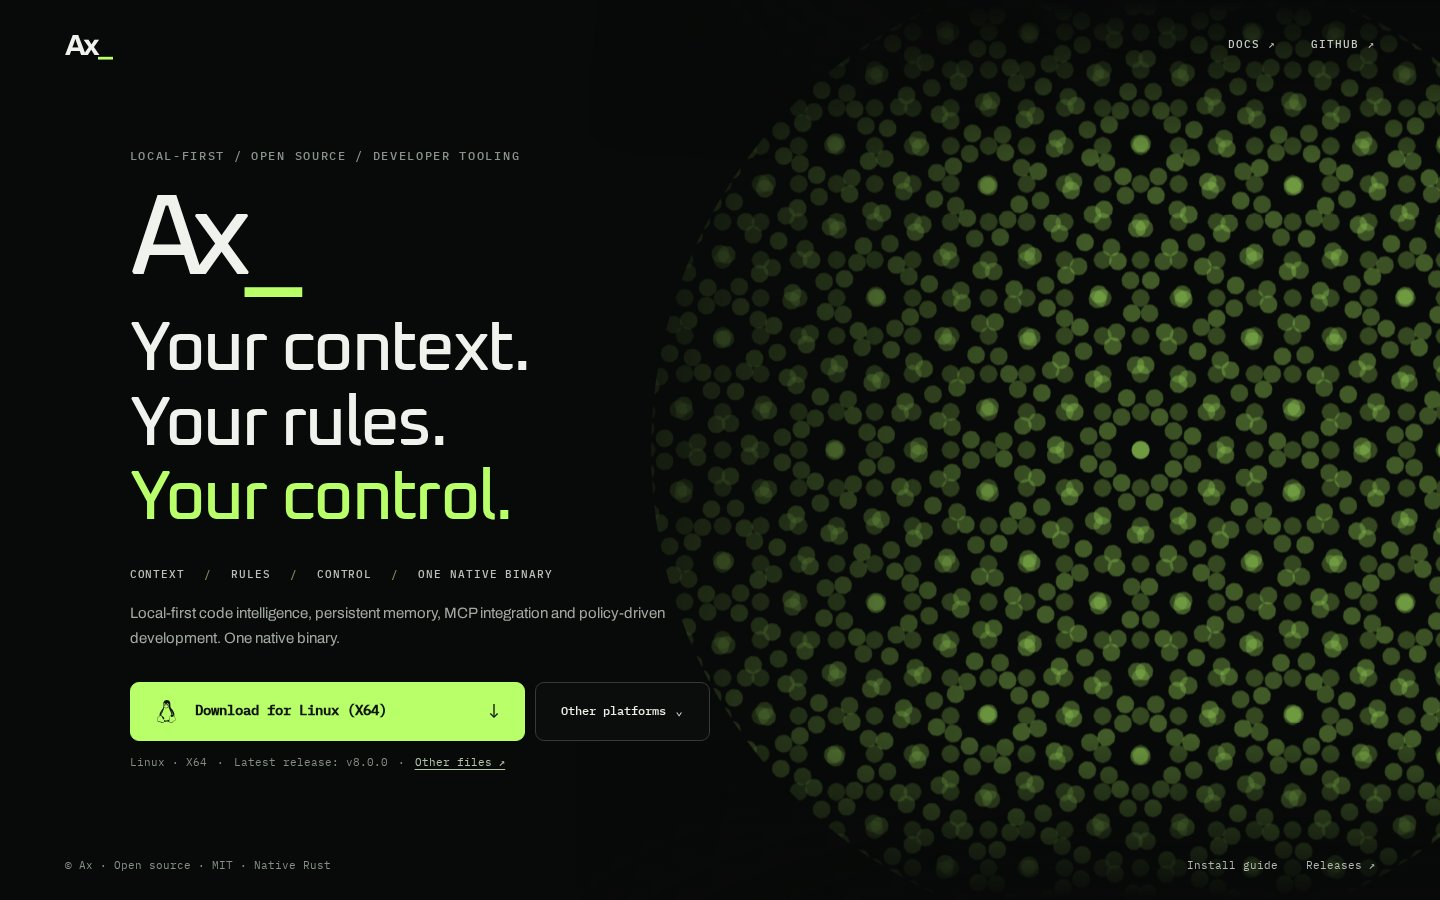
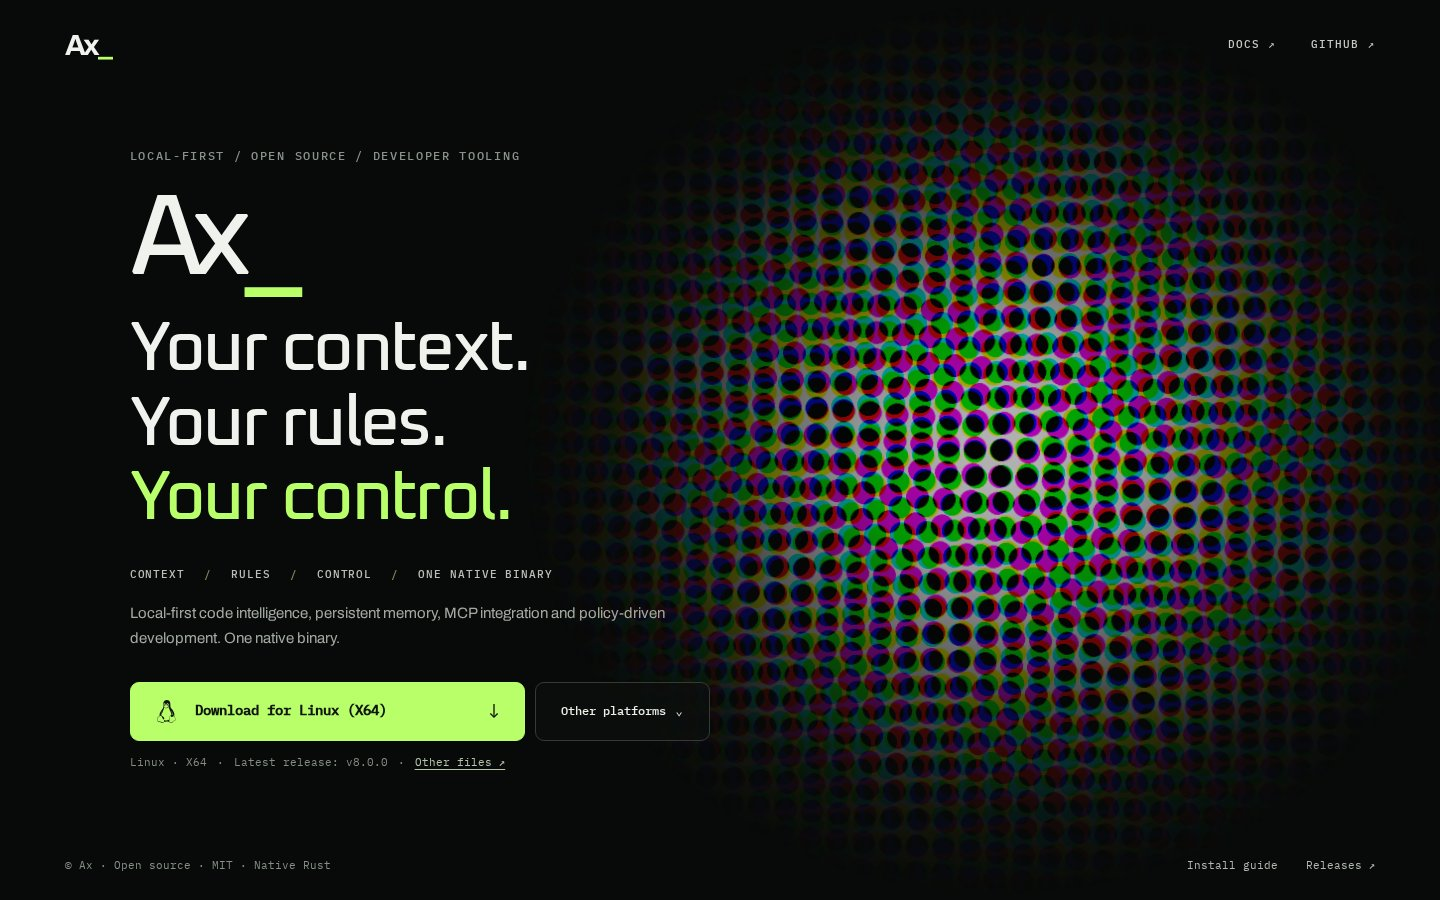
fix(site): use true CMY moire interference with feathered edges

diff --git a/site/src/styles/minimal-home.css b/site/src/styles/minimal-home.css
@@ -54,23 +54,23 @@ body.ax-landing{--ax-bg:#080a09;--ax-ink:#f0f3ed;--ax-muted:#a3aaa2;--ax-dim:#6f
 .ax-landing .ax-footer a{color:#b1b9b0}
 .ax-landing .ax-footer a:hover{color:var(--ax-lime)}
 .ax-landing .ax-footer .ax-footer-links{display:flex;gap:28px}
-/* Printed rosette: coarse round screens at deliberate 30-degree intervals.
-   All screens move as one circular composition; their relative angles stay fixed. */
-.ax-landing .ax-halftone{position:absolute;z-index:1;inset:0 0 0 40%;overflow:hidden;pointer-events:none;opacity:.78;mask-image:linear-gradient(100deg,transparent 2%,#000 55%);-webkit-mask-image:linear-gradient(100deg,transparent 2%,#000 55%)}
-.ax-landing .ax-halftone::after{content:'';position:absolute;inset:0;background:linear-gradient(180deg,var(--ax-bg),transparent 18%,transparent 82%,var(--ax-bg));pointer-events:none}
-.ax-landing .ax-halftone-grid{position:absolute;width:clamp(600px,68vw,1050px);aspect-ratio:1;right:-22%;top:50%;border-radius:50%;overflow:hidden;isolation:isolate;transform:translateY(-50%);animation:ax-halftone-rosette 60s ease-in-out infinite alternate}
-.ax-landing .ax-halftone-dots{position:absolute;inset:-24%;background-image:radial-gradient(circle,rgba(185,255,106,.5) 0 8.5px,transparent 9px);background-size:38px 38px;background-position:center;transform-origin:center}
-.ax-landing .ax-halftone-screen-one{opacity:.65;transform:rotate(0deg)}
-.ax-landing .ax-halftone-screen-two{opacity:.85;transform:rotate(30deg)}
-.ax-landing .ax-halftone-screen-three{opacity:.75;transform:rotate(60deg)}
-@keyframes ax-halftone-rosette{from{transform:translateY(-50%) rotate(-2deg)}to{transform:translateY(-50%) rotate(2deg)}}
+/* Genuine overprint interference: near-matched dot pitches and independently
+   moving screen angles produce large beat bands. CMY overlap creates black. */
+.ax-landing .ax-halftone{position:absolute;z-index:1;inset:0 -3% 0 36%;overflow:hidden;pointer-events:none;opacity:.68;mask-image:radial-gradient(ellipse closest-side at 50% 50%,#000 8%,rgba(0,0,0,.85) 28%,rgba(0,0,0,.38) 58%,rgba(0,0,0,.09) 80%,transparent 100%);-webkit-mask-image:radial-gradient(ellipse closest-side at 50% 50%,#000 8%,rgba(0,0,0,.85) 28%,rgba(0,0,0,.38) 58%,rgba(0,0,0,.09) 80%,transparent 100%)}
+.ax-landing .ax-halftone-grid{position:absolute;inset:0;background:#fff;isolation:isolate}
+.ax-landing .ax-halftone-dots{position:absolute;inset:-30%;background-position:center;transform-origin:center;mix-blend-mode:multiply}
+.ax-landing .ax-halftone-screen-one{background-image:radial-gradient(circle,#00ffff 0 10.8px,transparent 11.3px);background-size:26px 26px;transform:rotate(-3deg)}
+.ax-landing .ax-halftone-screen-two{background-image:radial-gradient(circle,#ff00ff 0 11.1px,transparent 11.6px);background-size:26.8px 26.8px;animation:ax-moire-magenta 64s ease-in-out infinite alternate}
+.ax-landing .ax-halftone-screen-three{background-image:radial-gradient(circle,#ffff00 0 10.55px,transparent 11.05px);background-size:25.4px 25.4px;animation:ax-moire-yellow 79s ease-in-out infinite alternate}
+@keyframes ax-moire-magenta{from{transform:translate3d(-6px,3px,0) rotate(2deg)}to{transform:translate3d(8px,-3px,0) rotate(7deg)}}
+@keyframes ax-moire-yellow{from{transform:translate3d(5px,-4px,0) rotate(-7deg)}to{transform:translate3d(-7px,5px,0) rotate(-2deg)}}
 .ax-landing .ax-skip{position:fixed;top:-100px;left:12px;z-index:20;background:var(--ax-lime);color:#101510;padding:10px}.ax-landing .ax-skip:focus{top:10px}
 @media(min-width:900px){html:has(body.ax-landing),body.ax-landing{min-height:100%}.ax-landing .ax-page{min-height:100svh} }
 @media(min-width:900px) and (max-height:790px){.ax-landing .ax-header{height:64px;min-height:64px}.ax-landing .ax-footer{min-height:44px}.ax-landing .ax-eyebrow{margin-bottom:16px}.ax-landing .ax-display-word{font-size:clamp(60px,6.8vw,95px);margin-bottom:9px}.ax-landing .ax-headline{font-size:clamp(33px,4.15vw,60px)}.ax-landing .ax-feature-strip{margin-top:20px}.ax-landing .ax-explainer{margin-top:15px}.ax-landing .ax-download{margin-top:20px}.ax-landing .ax-download-primary{min-height:53px}}
-@media(max-width:899px){.ax-landing .ax-page{min-height:100svh;overflow:hidden}.ax-landing .ax-header{height:75px}.ax-landing .ax-main{padding:62px 27px 90px;align-items:start}.ax-landing .ax-content{width:min(650px,100%)}.ax-landing .ax-halftone{inset:5% -10% 15% 25%;opacity:.4}.ax-landing .ax-halftone::after{background:linear-gradient(90deg,#080a09 0%,transparent 78%),linear-gradient(180deg,#080a09 0%,transparent 40%,#080a09 100%)}}
-@media(max-width:600px){.ax-landing .ax-header{height:65px;padding-inline:23px}.ax-landing .ax-wordmark{font-size:26px}.ax-landing .ax-navigation{gap:19px}.ax-landing .ax-navigation a{font-size:10px}.ax-landing .ax-main{padding:69px 23px 70px}.ax-landing .ax-eyebrow{font-size:9px;margin-bottom:25px;letter-spacing:.08em}.ax-landing .ax-display-word{font-size:81px;margin-bottom:20px}.ax-landing .ax-headline{font-size:clamp(38px,9.6vw,58px)}.ax-landing .ax-feature-strip{gap:9px 10px;margin-top:29px;font-size:9px}.ax-landing .ax-feature-strip span+span::before{margin-right:10px}.ax-landing .ax-explainer{font-size:14px;margin-top:18px}.ax-landing .ax-download{margin-top:28px}.ax-landing .ax-download-row{flex-direction:column}.ax-landing .ax-download-primary{min-height:58px;font-size:12px;white-space:normal;padding:0 18px;gap:10px}.ax-landing .ax-other-platforms{min-height:48px;width:100%}.ax-landing .ax-platform-panel{width:100%;position:relative;bottom:auto;right:auto;margin:12px 0 0}.ax-landing .ax-download-controls{width:100%}.ax-landing .ax-footer{padding:20px 23px;flex-wrap:wrap;gap:9px;font-size:9px}.ax-landing .ax-footer .ax-footer-links{gap:16px}.ax-landing .ax-halftone{inset:10% -20% 18% 24%;opacity:.35}}
-@media(prefers-reduced-motion:reduce){.ax-landing .ax-halftone-grid{animation:none!important}.ax-landing *, .ax-landing *::before,.ax-landing *::after{scroll-behavior:auto!important;transition:none!important}}
-html[data-ax-motion='paused'] .ax-landing .ax-halftone-grid{animation-play-state:paused!important}
+@media(max-width:899px){.ax-landing .ax-page{min-height:100svh;overflow:hidden}.ax-landing .ax-header{height:75px}.ax-landing .ax-main{padding:62px 27px 90px;align-items:start}.ax-landing .ax-content{width:min(650px,100%)}.ax-landing .ax-halftone{inset:4% -25% 12% 20%;opacity:.3}}
+@media(max-width:600px){.ax-landing .ax-header{height:65px;padding-inline:23px}.ax-landing .ax-wordmark{font-size:26px}.ax-landing .ax-navigation{gap:19px}.ax-landing .ax-navigation a{font-size:10px}.ax-landing .ax-main{padding:69px 23px 70px}.ax-landing .ax-eyebrow{font-size:9px;margin-bottom:25px;letter-spacing:.08em}.ax-landing .ax-display-word{font-size:81px;margin-bottom:20px}.ax-landing .ax-headline{font-size:clamp(38px,9.6vw,58px)}.ax-landing .ax-feature-strip{gap:9px 10px;margin-top:29px;font-size:9px}.ax-landing .ax-feature-strip span+span::before{margin-right:10px}.ax-landing .ax-explainer{font-size:14px;margin-top:18px}.ax-landing .ax-download{margin-top:28px}.ax-landing .ax-download-row{flex-direction:column}.ax-landing .ax-download-primary{min-height:58px;font-size:12px;white-space:normal;padding:0 18px;gap:10px}.ax-landing .ax-other-platforms{min-height:48px;width:100%}.ax-landing .ax-platform-panel{width:100%;position:relative;bottom:auto;right:auto;margin:12px 0 0}.ax-landing .ax-download-controls{width:100%}.ax-landing .ax-footer{padding:20px 23px;flex-wrap:wrap;gap:9px;font-size:9px}.ax-landing .ax-footer .ax-footer-links{gap:16px}.ax-landing .ax-halftone{inset:8% -45% 18% 16%;opacity:.2}}
+@media(prefers-reduced-motion:reduce){.ax-landing .ax-halftone-dots{animation:none!important}.ax-landing *, .ax-landing *::before,.ax-landing *::after{scroll-behavior:auto!important;transition:none!important}}
+html[data-ax-motion='paused'] .ax-landing .ax-halftone-dots{animation-play-state:paused!important}
 /* Keep the platform selector aligned with the primary download control. */
 .ax-landing .ax-download-controls{display:flex;align-items:stretch}
 .ax-landing .ax-other-platforms{min-height:59px}

diff --git a/site/tests/home-minimal.test.ts b/site/tests/home-minimal.test.ts
@@ -29,20 +29,18 @@ test('Oxanium is bundled and used for the heading, not loaded from Google Fonts'
   assert.doesNotMatch(page, /fonts\.googleapis\.com|fonts\.gstatic\.com/);
 });
 
-test('coarse circular print rosette remains CSS-only and respects reduced motion', () => {
-  assert.match(home, /ax-halftone-grid/);
+test('CMY interference uses near-matched pitches, independent motion and feathered edges', () => {
   assert.match(home, /ax-halftone-screen-three/);
-  assert.match(css, /38px 38px/);
-  assert.match(css, /rotate\(30deg\)/);
-  assert.match(css, /rotate\(60deg\)/);
-  assert.match(css, /border-radius:50%/);
-  assert.doesNotMatch(css, /ax-moire|mix-blend-mode/);
-  assert.match(css, /rgba\(185,255,106/);
-  assert.match(css, /@keyframes ax-halftone-rosette/);
+  for (const pitch of ['26px 26px', '26.8px 26.8px', '25.4px 25.4px']) assert.ok(css.includes(pitch));
+  for (const ink of ['#00ffff', '#ff00ff', '#ffff00']) assert.ok(css.includes(ink));
+  assert.match(css, /mix-blend-mode:multiply/);
+  assert.match(css, /ellipse closest-side/);
+  assert.match(css, /transparent 100%/);
+  assert.doesNotMatch(css, /border-radius:50%|ax-halftone-rosette/);
+  assert.match(css, /@keyframes ax-moire-magenta/);
+  assert.match(css, /@keyframes ax-moire-yellow/);
   assert.match(css, /prefers-reduced-motion:reduce/);
-  assert.match(css, /@media\(min-width:900px\)/);
   assert.doesNotMatch(css, /background-image:\s*url\(/);
-  assert.doesNotMatch(home, /VectorLandscape|AresOverlay|LiveTerminal|ScrollReveal/);
 });
 
 test('installer offers the six real release assets and manual OS and CPU selection', () => {
